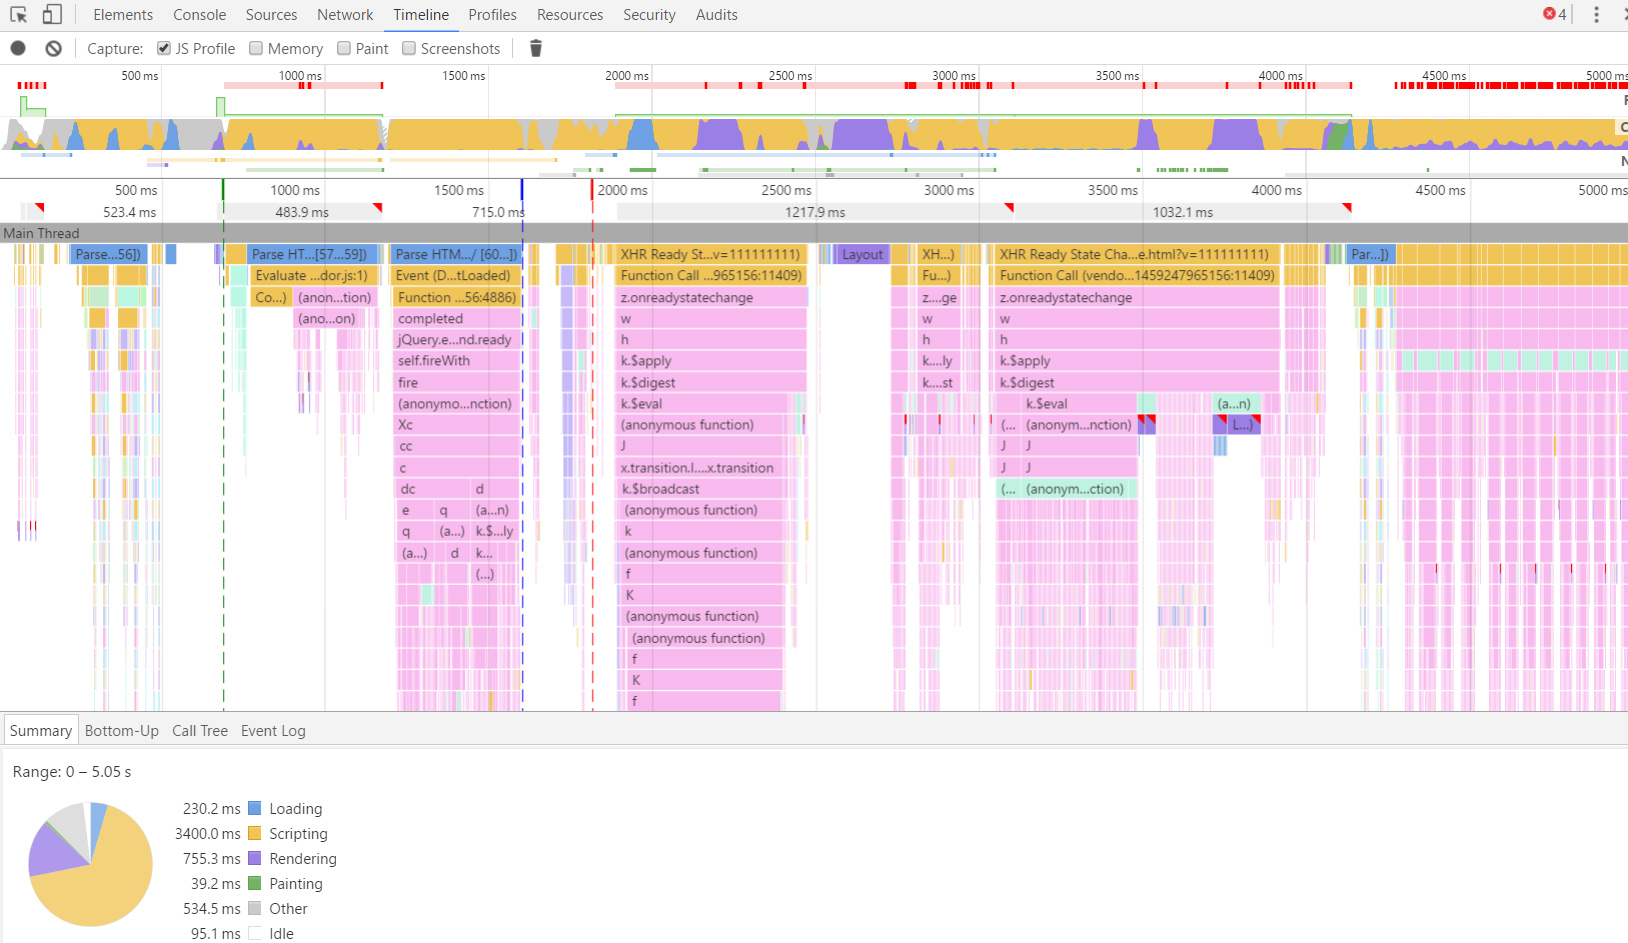
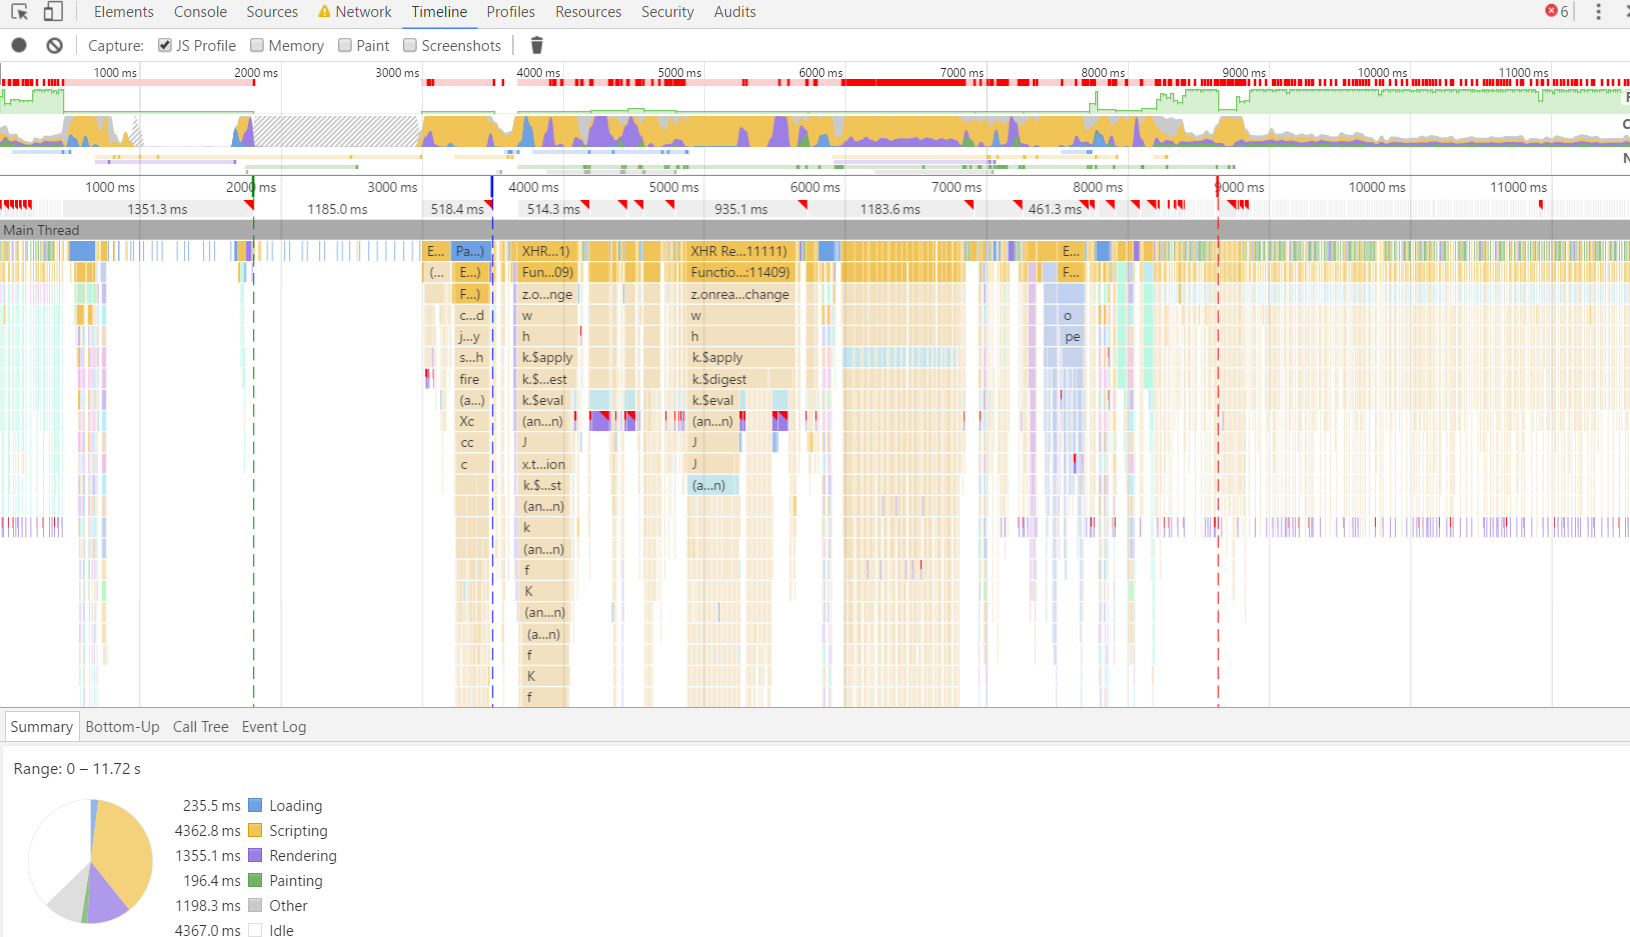
updated readme

diff --git a/README.md b/README.md
@@ -8,9 +8,9 @@ Overzicht:
 - Critical CSS
 
 ###### Before
-DOM: 690ms <br />
-First Paint: 1600ms <br />
-Load event: 1810ms
+DOM: 1810ms <br />
+First Paint: 3500ms <br />
+Load event: 8640ms
 
 ![alt tag](https://github.com/RaymondKorrel/pw2/blob/student/raymond/readme/before.jpg)
 
